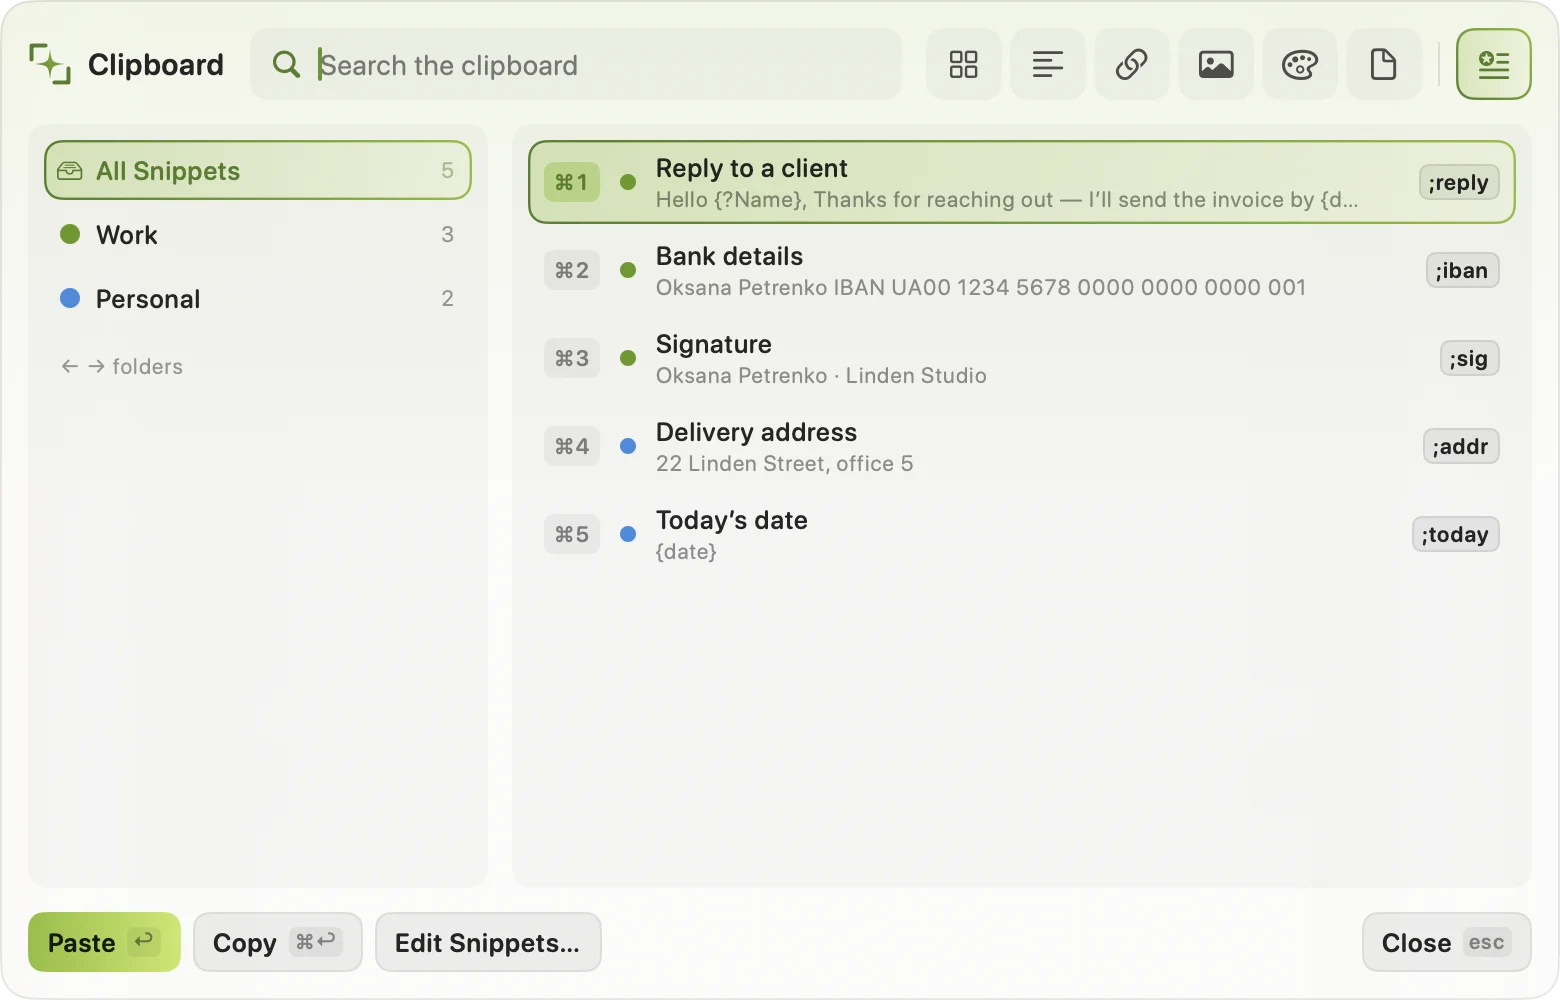
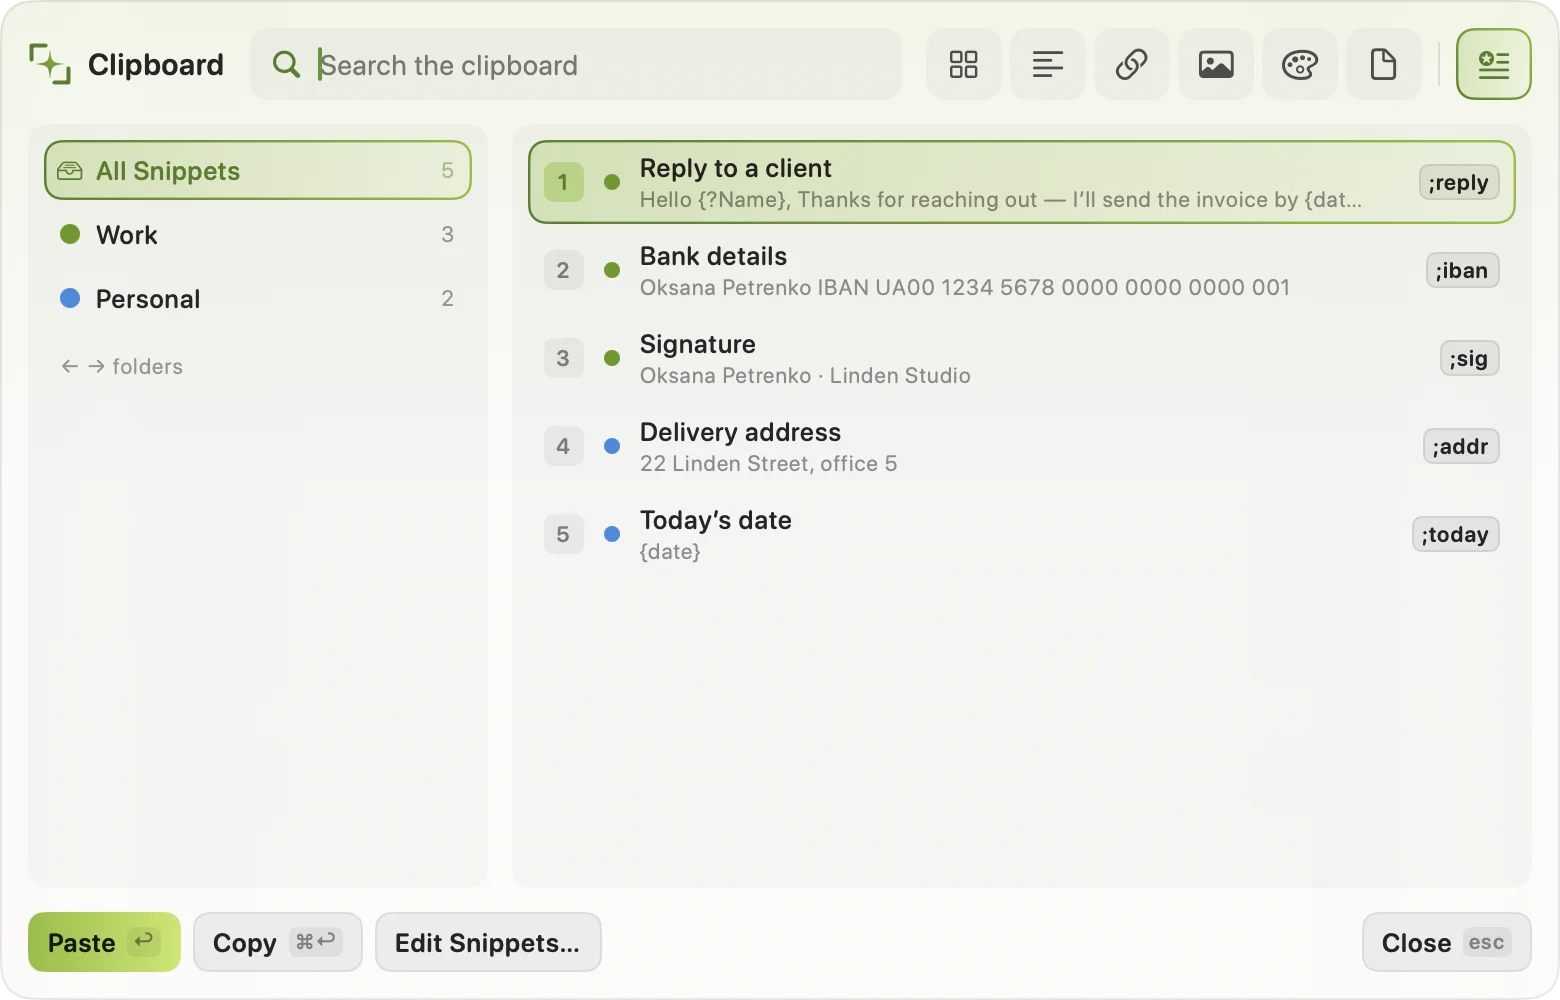
Clipboard panel opens without the search focused: 1–9 paste at once, typing starts the search
Instead of ⌘1–⌘9: the search field isn't focused as the panel opens, so a
bare digit pastes that row. A letter (or a click) starts the search, where
digits are typed; esc leaves the search with its results, a second esc closes.

Changed region(s): [[0.3385, 0.341, 0.6462, 0.558], [0.3692, 0.155, 0.8615, 0.217], [0.3385, 0.248, 0.8308, 0.31]]

diff --git a/site/src/guide.html b/site/src/guide.html
@@ -166,7 +166,7 @@
   <figure><img data-shot="clipboard" alt="[[The clipboard panel: the history on the left, the selected entry on the right||Панель буфера: історія ліворуч, вибраний запис праворуч]]"></figure>
   <table class="keys">
     <tr><td><kbd>↩</kbd></td><td>[[paste into the app you were in||вставити в програму, де ви були]]</td></tr>
-    <tr><td><kbd>⌘1</kbd>–<kbd>⌘9</kbd></td><td>[[paste that row at once (plain digits go into the search)||одразу вставити цей рядок (цифри без ⌘ ідуть у пошук)]]</td></tr>
+    <tr><td><kbd>1</kbd>–<kbd>9</kbd></td><td>[[paste that row at once (in the search, digits are typed; <kbd>esc</kbd> leaves it)||одразу вставити цей рядок (у пошуку цифри друкуються; <kbd>esc</kbd> виходить із нього)]]</td></tr>
     <tr><td><kbd>⌥↩</kbd></td><td>[[paste as plain text, without formatting||вставити без форматування]]</td></tr>
     <tr><td><kbd>⌘↩</kbd></td><td>[[only copy, don’t paste||лише скопіювати, не вставляти]]</td></tr>
     <tr><td><kbd>⌘P</kbd></td><td>[[pin: pinned entries stay when the history is cleared||закріпити: закріплене лишається, коли історію очищують]]</td></tr>
@@ -176,7 +176,7 @@
     <tr><td><kbd>Tab</kbd></td><td>[[switch to the snippets||перейти до сніпетів]]</td></tr>
   </table>
   <h3>[[Search||Пошук]]</h3>
-  <p>[[Just start typing. It finds any word, including words inside pictures and screenshots.||Просто почніть друкувати. Знаходить будь-яке слово, зокрема слова на картинках і скріншотах.]]</p>
+  <p>[[Just start typing (to start with a number, click the field first). It finds any word, including words inside pictures and screenshots.||Просто почніть друкувати (щоб почати з цифри, спершу клацніть у поле). Знаходить будь-яке слово, зокрема слова на картинках і скріншотах.]]</p>
   <figure><img data-shot="clipboard-search" alt="[[Search in the clipboard history||Пошук в історії буфера]]"></figure>
   <h3>[[Several at once||Кілька одразу]]</h3>
   <p>[[Mark entries with <kbd>⌘</kbd>-click or <kbd>⇧↓</kbd> / <kbd>⇧↑</kbd>. Then <kbd>↩</kbd> pastes them together, a line each, and <kbd>⌘↩</kbd> one by one: the first now, and each next <kbd>⇧⌘V</kbd> pastes the next. Handy for filling a form field by field.||Позначайте записи <kbd>⌘</kbd>-кліком або <kbd>⇧↓</kbd> / <kbd>⇧↑</kbd>. Тоді <kbd>↩</kbd> вставляє їх разом, кожен з нового рядка, а <kbd>⌘↩</kbd> по черзі: перший одразу, а кожне наступне <kbd>⇧⌘V</kbd> вставляє наступний. Зручно заповнювати форму поле за полем.]]</p>

diff --git a/ShotleafKit/Sources/AppFeature/Clipboard/ClipboardPanel.swift b/ShotleafKit/Sources/AppFeature/Clipboard/ClipboardPanel.swift
@@ -13,6 +13,9 @@ final class ClipboardPanelModel {
     /// The Snippets tab instead of the history.
     var showsSnippets = false { didSet { selected = 0; asking = nil } }
     var selected = 0
+    /// The search field has the keyboard. Off as the panel opens, so 1–9 paste a row at once;
+    /// typing a letter (or a click) starts the search, and there digits are just digits.
+    var searching = false
     /// Entries picked with ⌘-click / ⇧↑↓, in the order picked.
     var marked: [UUID] = []
     /// ⌘K: the actions list instead of the preview.
@@ -215,6 +218,7 @@ final class ClipboardPanelController {
         case 48:                                                               // Tab: history ↔ snippets, ⇧Tab: the types
             if mods.contains(.shift) { model.showsSnippets = false; model.nextKind(1) } else { model.showsSnippets.toggle() }
             return true
+        case 53 where model.searching: model.searching = false; return true    // esc: out of the search (its results stay)
         case 53: close(); return true                                          // esc
         case 36, 76:                                                           // ↩
             guard let item = model.current else { return true }
@@ -233,14 +237,26 @@ final class ClipboardPanelController {
             openImage(payload)
             return true
         }
-        // ⌘1–⌘9 paste that row; bare digits are typed into the search.
-        if let n = Int(key), (1...9).contains(n), mods == .command {
+        // 1–9 paste that row (in the search they're typed; ⌘1–⌘9 paste from there too).
+        if let n = Int(key), (1...9).contains(n), mods == .command || (mods.isEmpty && !model.searching) {
             if model.showsSnippets {
                 let results = model.snippetResults
                 if results.indices.contains(n - 1) { pick(results[n - 1], .paste) }
             } else {
                 let results = model.results
                 if results.indices.contains(n - 1) { pick(results[n - 1], .paste) }
+            }
+            return true
+        }
+        // Typing anything else starts the search with it.
+        if !model.searching, mods.subtracting(.shift).isEmpty, let typed = event.characters, !typed.isEmpty,
+           typed.unicodeScalars.allSatisfy({ !CharacterSet.controlCharacters.contains($0) && !(0xF700...0xF8FF).contains($0.value) }) {
+            model.query += typed
+            model.searching = true
+            // A field that takes the keyboard selects all its text: put the caret after it instead.
+            DispatchQueue.main.async { [weak panel] in
+                guard let editor = panel?.firstResponder as? NSTextView else { return }
+                editor.setSelectedRange(NSRange(location: (editor.string as NSString).length, length: 0))
             }
             return true
         }

diff --git a/site/uk/guide/index.html b/site/uk/guide/index.html
@@ -177,7 +177,7 @@
   <figure><img src="../../assets/guide/clipboard-uk.webp" width="1560" height="1000" loading="lazy" decoding="async" alt="Панель буфера: історія ліворуч, вибраний запис праворуч"></figure>
   <table class="keys">
     <tr><td><kbd>↩</kbd></td><td>вставити в програму, де ви були</td></tr>
-    <tr><td><kbd>⌘1</kbd>–<kbd>⌘9</kbd></td><td>одразу вставити цей рядок (цифри без ⌘ ідуть у пошук)</td></tr>
+    <tr><td><kbd>1</kbd>–<kbd>9</kbd></td><td>одразу вставити цей рядок (у пошуку цифри друкуються; <kbd>esc</kbd> виходить із нього)</td></tr>
     <tr><td><kbd>⌥↩</kbd></td><td>вставити без форматування</td></tr>
     <tr><td><kbd>⌘↩</kbd></td><td>лише скопіювати, не вставляти</td></tr>
     <tr><td><kbd>⌘P</kbd></td><td>закріпити: закріплене лишається, коли історію очищують</td></tr>
@@ -187,7 +187,7 @@
     <tr><td><kbd>Tab</kbd></td><td>перейти до сніпетів</td></tr>
   </table>
   <h3>Пошук</h3>
-  <p>Просто почніть друкувати. Знаходить будь-яке слово, зокрема слова на картинках і скріншотах.</p>
+  <p>Просто почніть друкувати (щоб почати з цифри, спершу клацніть у поле). Знаходить будь-яке слово, зокрема слова на картинках і скріншотах.</p>
   <figure><img src="../../assets/guide/clipboard-search-uk.webp" width="1560" height="1000" loading="lazy" decoding="async" alt="Пошук в історії буфера"></figure>
   <h3>Кілька одразу</h3>
   <p>Позначайте записи <kbd>⌘</kbd>-кліком або <kbd>⇧↓</kbd> / <kbd>⇧↑</kbd>. Тоді <kbd>↩</kbd> вставляє їх разом, кожен з нового рядка, а <kbd>⌘↩</kbd> по черзі: перший одразу, а кожне наступне <kbd>⇧⌘V</kbd> вставляє наступний. Зручно заповнювати форму поле за полем.</p>

diff --git a/site/guide/index.html b/site/guide/index.html
@@ -177,7 +177,7 @@
   <figure><img src="../assets/guide/clipboard-en.webp" width="1560" height="1000" loading="lazy" decoding="async" alt="The clipboard panel: the history on the left, the selected entry on the right"></figure>
   <table class="keys">
     <tr><td><kbd>↩</kbd></td><td>paste into the app you were in</td></tr>
-    <tr><td><kbd>⌘1</kbd>–<kbd>⌘9</kbd></td><td>paste that row at once (plain digits go into the search)</td></tr>
+    <tr><td><kbd>1</kbd>–<kbd>9</kbd></td><td>paste that row at once (in the search, digits are typed; <kbd>esc</kbd> leaves it)</td></tr>
     <tr><td><kbd>⌥↩</kbd></td><td>paste as plain text, without formatting</td></tr>
     <tr><td><kbd>⌘↩</kbd></td><td>only copy, don’t paste</td></tr>
     <tr><td><kbd>⌘P</kbd></td><td>pin: pinned entries stay when the history is cleared</td></tr>
@@ -187,7 +187,7 @@
     <tr><td><kbd>Tab</kbd></td><td>switch to the snippets</td></tr>
   </table>
   <h3>Search</h3>
-  <p>Just start typing. It finds any word, including words inside pictures and screenshots.</p>
+  <p>Just start typing (to start with a number, click the field first). It finds any word, including words inside pictures and screenshots.</p>
   <figure><img src="../assets/guide/clipboard-search-en.webp" width="1560" height="1000" loading="lazy" decoding="async" alt="Search in the clipboard history"></figure>
   <h3>Several at once</h3>
   <p>Mark entries with <kbd>⌘</kbd>-click or <kbd>⇧↓</kbd> / <kbd>⇧↑</kbd>. Then <kbd>↩</kbd> pastes them together, a line each, and <kbd>⌘↩</kbd> one by one: the first now, and each next <kbd>⇧⌘V</kbd> pastes the next. Handy for filling a form field by field.</p>

diff --git a/ShotleafKit/Sources/AppFeature/Clipboard/ClipboardPanelView.swift b/ShotleafKit/Sources/AppFeature/Clipboard/ClipboardPanelView.swift
@@ -1,7 +1,7 @@
 import SwiftUI
 
 /// The ⇧⌘V panel (history and snippets), in the screenshot window's look: name, search and type
-/// tiles on top; the list (⌘1–⌘9 on the first rows) and a preview on canvas
+/// tiles on top; the list (1–9 on the first rows) and a preview on canvas
 /// cards; actions with their keys at the bottom.
 struct ClipboardPanelView: View {
     @Bindable var model: ClipboardPanelModel
@@ -37,7 +37,8 @@ struct ClipboardPanelView: View {
         .padding(14)
         .frame(width: 780, height: 500)
         .leafPanelChrome()
-        .onAppear { searching = true }
+        .onChange(of: model.searching) { _, on in searching = on }
+        .onChange(of: searching) { _, on in model.searching = on } // a click in the field
     }
 
     /// The canvas look of the screenshot window.
@@ -217,9 +218,9 @@ struct ClipboardPanelView: View {
     func row(_ item: ClipItem, index: Int) -> some View {
         let on = index == model.selected
         return HStack(spacing: 10) {
-            Text(index < 9 ? "⌘\(index + 1)" : "")
+            Text(index < 9 ? "\(index + 1)" : "")
                 .font(Leaf.font(11, .semibold)).monospacedDigit()
-                .frame(width: 28, height: 20)
+                .frame(width: 20, height: 20)
                 .background(RoundedRectangle(cornerRadius: 5).fill(on ? Leaf.fresh.opacity(0.45) : Color.primary.opacity(index < 9 ? 0.06 : 0)))
                 .foregroundStyle(on ? Leaf.ink : Color.primary.opacity(0.55))
             if let order = model.marked.firstIndex(of: item.id) {

diff --git a/ShotleafKit/Sources/AppFeature/Clipboard/ClipboardPanelView+Snippets.swift b/ShotleafKit/Sources/AppFeature/Clipboard/ClipboardPanelView+Snippets.swift
@@ -71,9 +71,9 @@ extension ClipboardPanelView {
     func snippetRow(_ snippet: Snippet, index: Int) -> some View {
         let on = index == model.selected
         return HStack(spacing: 10) {
-            Text(index < 9 ? "⌘\(index + 1)" : "")
+            Text(index < 9 ? "\(index + 1)" : "")
                 .font(Leaf.font(11, .semibold)).monospacedDigit()
-                .frame(width: 28, height: 20)
+                .frame(width: 20, height: 20)
                 .background(RoundedRectangle(cornerRadius: 5).fill(on ? Leaf.fresh.opacity(0.45) : Color.primary.opacity(index < 9 ? 0.06 : 0)))
                 .foregroundStyle(on ? Leaf.ink : Color.primary.opacity(0.55))
             Circle().fill(Color(nsColor: model.snippets.folder(snippet.folder).map { SnippetFolder.colors[$0.color % SnippetFolder.colors.count] } ?? .tertiaryLabelColor))

diff --git a/CHANGELOG.md b/CHANGELOG.md
@@ -2,7 +2,7 @@
 
 ## Unreleased
 
-- Clipboard panel: ⌘1–⌘9 paste a row; a plain digit goes into the search (it used to paste a row when the search was empty, so a search couldn't start with a number).
+- Clipboard panel: it opens without the search focused, so 1–9 paste a row at once. Typing a letter (or a click) starts the search, where digits are just digits; esc leaves the search with its results, and 1–9 paste from them. A search can now start with a number.
 - Updates: a release must be signed with Shotleaf's update key, checked before the download is even opened (from this version on).
 - Snippets: your clipboard comes back as soon as the app has taken the snippet, instead of after a fixed 0.4 s (a slow app no longer pastes the old clipboard).
 - Text completion runs on the model library's current interface; the suggestions are the same.
